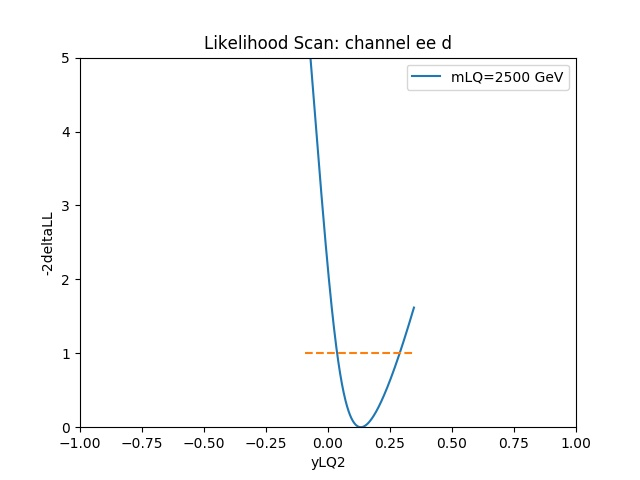
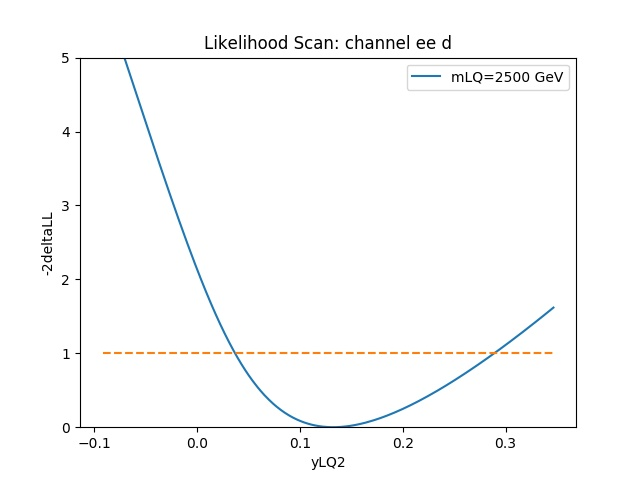
updated range of likelihoods

diff --git a/analyze/combine/AFB_fits/scripts/LQ_do_likelihood.py b/analyze/combine/AFB_fits/scripts/LQ_do_likelihood.py
@@ -88,7 +88,7 @@ if options.plot:
         respull = np.asarray(respull, dtype=float)
         poi_list = respull[:,0].tolist()
         deltaNLL = respull[:,1].tolist()
-        plt.xlim(-1,1)
+        #plt.xlim(-1,1)
         plt.ylim(0,5)          
         plt.plot(poi_list,deltaNLL,label='mLQ=%s GeV'%mLQ)
         plt.plot(poi_list,len(poi_list)*[1],linestyle='dashed')
